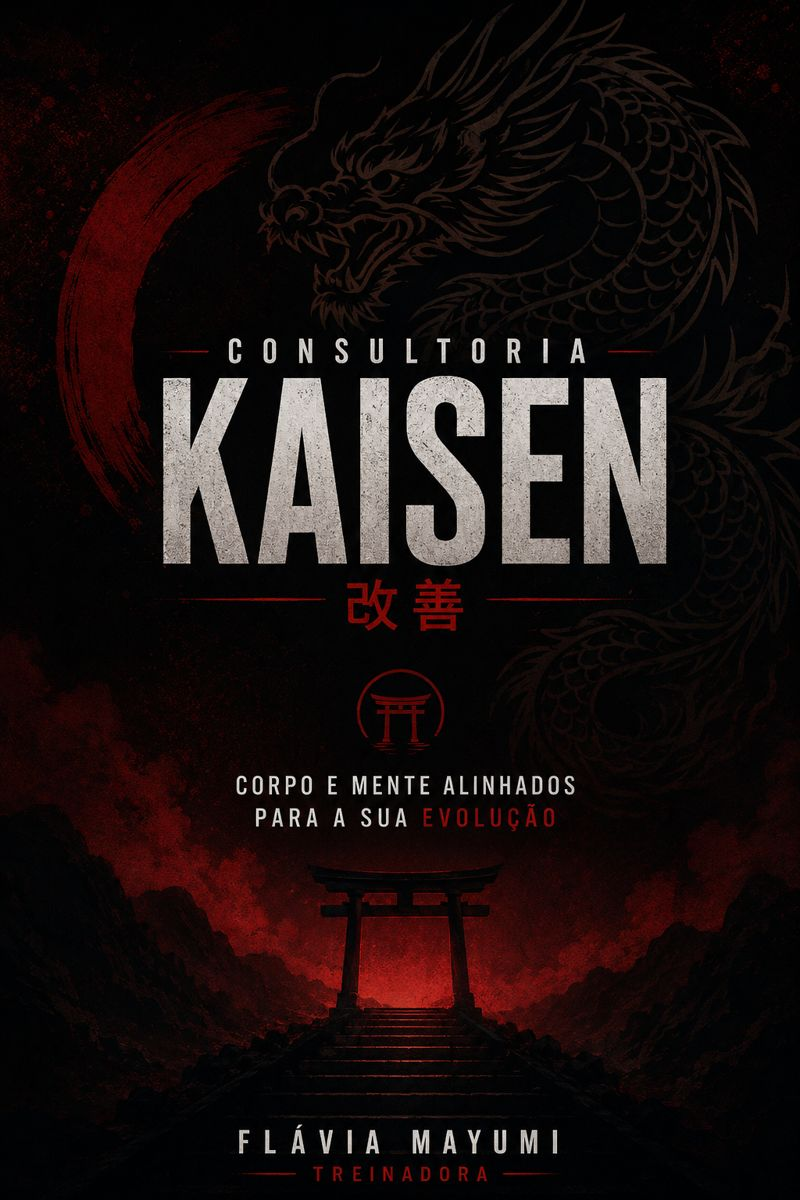
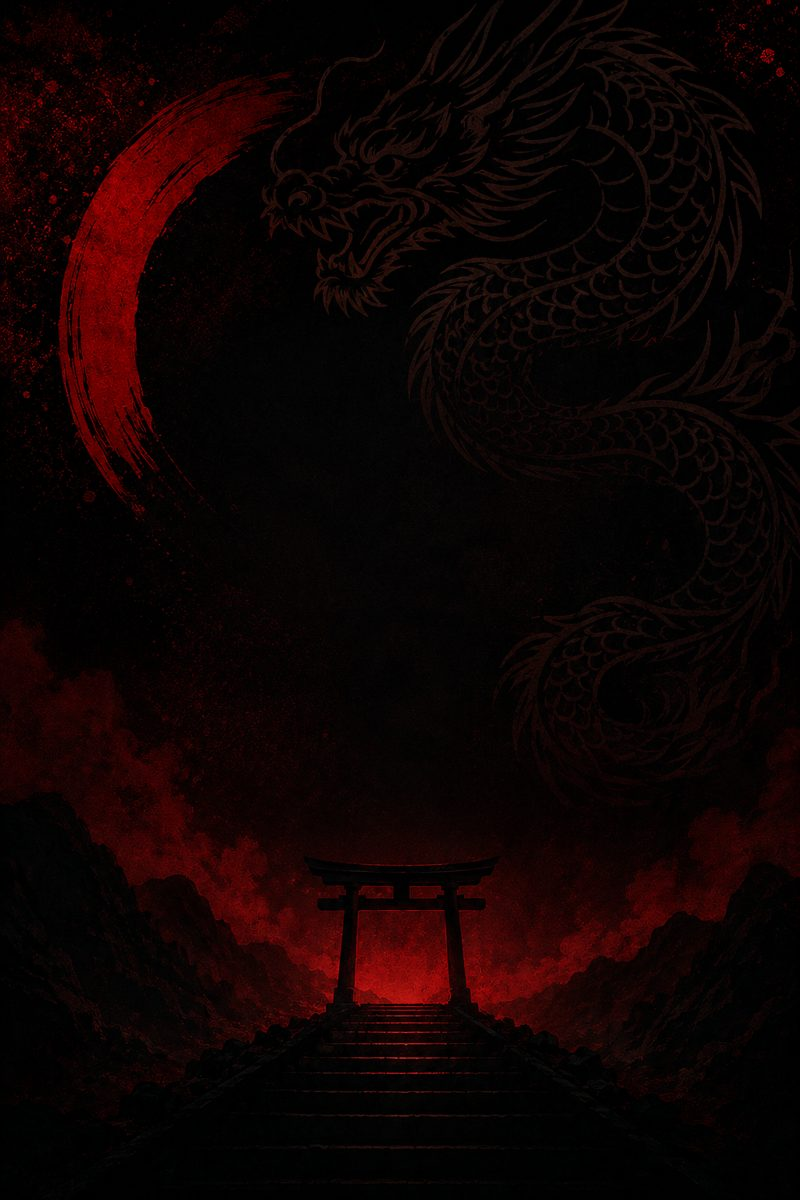
Use high-res background art for hero and closing section (#1)
Show the portrait art near native size in the centre with a blurred copy
filling the sides, instead of stretching low-res crops to full width.

diff --git a/styles.css b/styles.css
@@ -180,36 +180,6 @@ strong { font-weight: 600; color: #fff; }
   overflow: hidden; isolation: isolate;
   background: radial-gradient(ellipse 80% 60% at 50% 100%, rgba(142,15,23,.45), transparent 70%), var(--bg);
 }
-.hero__dragon {
-  position: absolute; z-index: -2; top: 0; right: -6%;
-  width: min(1000px, 95vw); aspect-ratio: 684 / 385;
-  background: url("assets/dragon.jpg") center / cover no-repeat;
-  mask-image: radial-gradient(ellipse 70% 70% at 55% 45%, #000 40%, transparent 75%);
-  -webkit-mask-image: radial-gradient(ellipse 70% 70% at 55% 45%, #000 40%, transparent 75%);
-  opacity: .85;
-  animation: drift 18s ease-in-out infinite alternate;
-}
-@keyframes drift { to { transform: translate(-2%, 2%) scale(1.04); } }
-.hero__enso {
-  position: absolute; z-index: -1;
-  width: min(620px, 120vw); aspect-ratio: 1;
-  left: 50%; top: 46%; translate: -50% -50%;
-  border-radius: 50%;
-  background: conic-gradient(from 200deg, transparent 0 8%, rgba(212,32,44,.5) 14%, rgba(142,15,23,.55) 40%, rgba(212,32,44,.15) 62%, transparent 70%);
-  mask: radial-gradient(circle, transparent 60%, #000 61%, #000 69%, transparent 70%);
-  -webkit-mask: radial-gradient(circle, transparent 60%, #000 61%, #000 69%, transparent 70%);
-  filter: blur(1.5px);
-  opacity: .75;
-  animation: spin 60s linear infinite;
-}
-@keyframes spin { to { rotate: 360deg; } }
-.hero__torii {
-  position: absolute; z-index: -1; left: 0; right: 0; bottom: 0;
-  height: min(52vh, 460px);
-  background: url("assets/torii.jpg") center bottom / cover no-repeat;
-  mask-image: linear-gradient(to bottom, transparent, #000 40%);
-  -webkit-mask-image: linear-gradient(to bottom, transparent, #000 40%);
-}
 .hero__content { text-align: center; max-width: 760px; }
 .hero__title {
   margin: 0; line-height: .8;
@@ -535,12 +505,6 @@ strong { font-weight: 600; color: #fff; }
   text-align: center;
   background: radial-gradient(ellipse 70% 60% at 50% 100%, rgba(212,32,44,.35), transparent 70%), var(--bg);
 }
-.final__bg {
-  position: absolute; z-index: -1; left: 0; right: 0; bottom: 0; height: min(60vw, 520px);
-  background: url("assets/torii.jpg") center bottom / cover no-repeat;
-  mask-image: linear-gradient(to bottom, transparent, #000 50%);
-  -webkit-mask-image: linear-gradient(to bottom, transparent, #000 50%);
-}
 .final__title {
   margin: .4rem 0 2rem; font-family: var(--display); font-weight: 400;
   font-size: clamp(2.6rem, 7vw, 4.6rem); line-height: 1; letter-spacing: .04em; text-transform: uppercase;
@@ -593,7 +557,6 @@ strong { font-weight: 600; color: #fff; }
 @media (max-width: 600px) {
   body { font-size: 16px; }
   .hero { padding-bottom: 170px; }
-  .hero__dragon { right: -30%; width: 150vw; top: 40px; opacity: .6; }
   .hero__tagline { letter-spacing: .14em; }
   .hero__actions .btn { width: 100%; }
   .marquee span { font-size: 1.5rem; }
@@ -606,4 +569,44 @@ strong { font-weight: 600; color: #fff; }
 @media (max-width: 600px) {
   .hero .eyebrow { letter-spacing: .3em; font-size: .75rem; gap: .8rem; }
   .hero .eyebrow--lines::before, .hero .eyebrow--lines::after { width: 28px; }
+}
+
+/* ---------- shared background art (assets/bg.jpg, 1024x1536) ----------
+   The portrait art is shown close to native size in the centre; a blurred,
+   darkened copy fills the sides so it never has to be upscaled to full width. */
+.bg-blur, .bg-art { position: absolute; z-index: -1; pointer-events: none; }
+.bg-blur {
+  inset: -60px;
+  background: url("assets/bg.jpg") center / cover no-repeat;
+  filter: blur(40px) brightness(.45) saturate(1.2);
+}
+.bg-art {
+  top: 0; bottom: 0; left: 50%; translate: -50% 0;
+  height: 100%; aspect-ratio: 2 / 3; max-height: 1536px;
+  background: url("assets/bg.jpg") center top / cover no-repeat;
+  -webkit-mask-image: linear-gradient(90deg, transparent, #000 16%, #000 84%, transparent);
+          mask-image: linear-gradient(90deg, transparent, #000 16%, #000 84%, transparent);
+}
+.hero::after {
+  content: ""; position: absolute; inset: auto 0 0 0; height: 120px; z-index: -1;
+  background: linear-gradient(transparent, var(--bg));
+}
+.hero { background: var(--bg); }
+.bg-art--bottom {
+  top: auto; bottom: 0; height: min(100%, 1400px);
+  background-position: center bottom;
+  -webkit-mask-image: linear-gradient(90deg, transparent, #000 16%, #000 84%, transparent), linear-gradient(transparent, #000 45%);
+          mask-image: linear-gradient(90deg, transparent, #000 16%, #000 84%, transparent), linear-gradient(transparent, #000 45%);
+  -webkit-mask-composite: source-in;
+          mask-composite: intersect;
+}
+.final { background: var(--bg); }
+.final .bg-blur { top: 30%; -webkit-mask-image: linear-gradient(transparent, #000 50%); mask-image: linear-gradient(transparent, #000 50%); }
+.hero__content { text-shadow: 0 2px 24px rgba(0,0,0,.6); }
+@media (max-width: 600px) {
+  .bg-art { -webkit-mask-image: none; mask-image: none; }
+  .bg-art--bottom {
+    -webkit-mask-image: linear-gradient(transparent, #000 45%);
+            mask-image: linear-gradient(transparent, #000 45%);
+  }
 }

diff --git a/index.html b/index.html
@@ -62,8 +62,8 @@
   <main id="topo">
     <!-- HERO -->
     <section class="hero">
-      <div class="hero__dragon" aria-hidden="true"></div>
-      <div class="hero__enso" aria-hidden="true"></div>
+      <div class="bg-blur" aria-hidden="true"></div>
+      <div class="bg-art" aria-hidden="true"></div>
       <div class="hero__content">
         <p class="eyebrow eyebrow--lines reveal">Consultoria online</p>
         <h1 class="hero__title reveal">KAISEN</h1>
@@ -81,7 +81,6 @@
           <span class="sig__role">Treinadora</span>
         </div>
       </div>
-      <div class="hero__torii" aria-hidden="true"></div>
       <a href="#filosofia" class="scroll-cue" aria-label="Rolar para baixo"><span></span></a>
     </section>
 
@@ -305,7 +304,8 @@
 
     <!-- CTA FINAL -->
     <section class="final" id="contato">
-      <div class="final__bg" aria-hidden="true"></div>
+      <div class="bg-blur" aria-hidden="true"></div>
+      <div class="bg-art bg-art--bottom" aria-hidden="true"></div>
       <div class="container container--narrow final__content">
         <p class="eyebrow eyebrow--lines reveal">Kaisen <span class="jp">改善</span></p>
         <h2 class="final__title reveal">A evolução não acontece em um único dia.<strong>Ela acontece todos os dias.</strong></h2>
